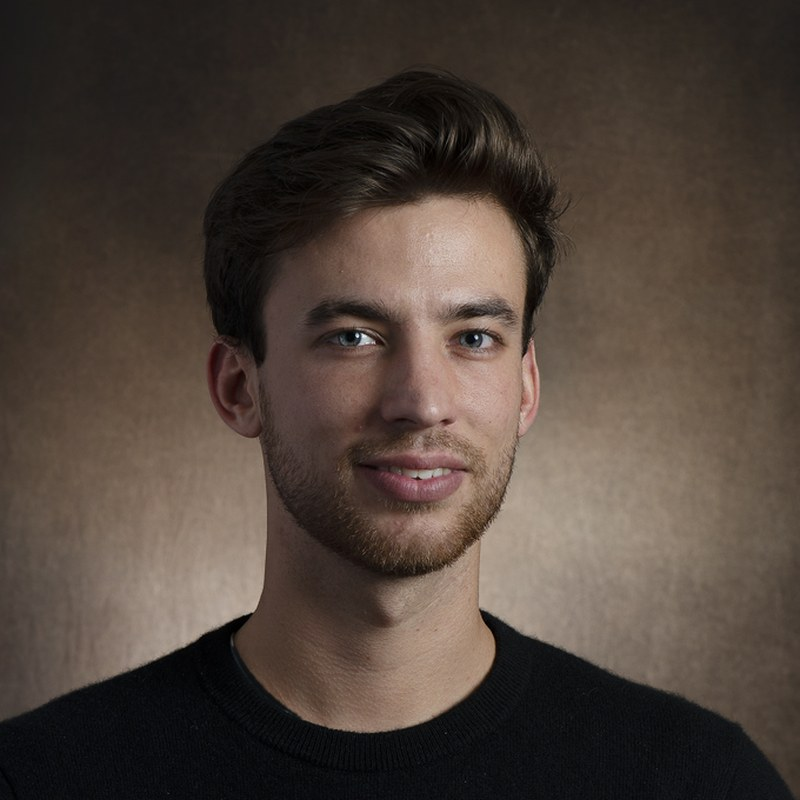
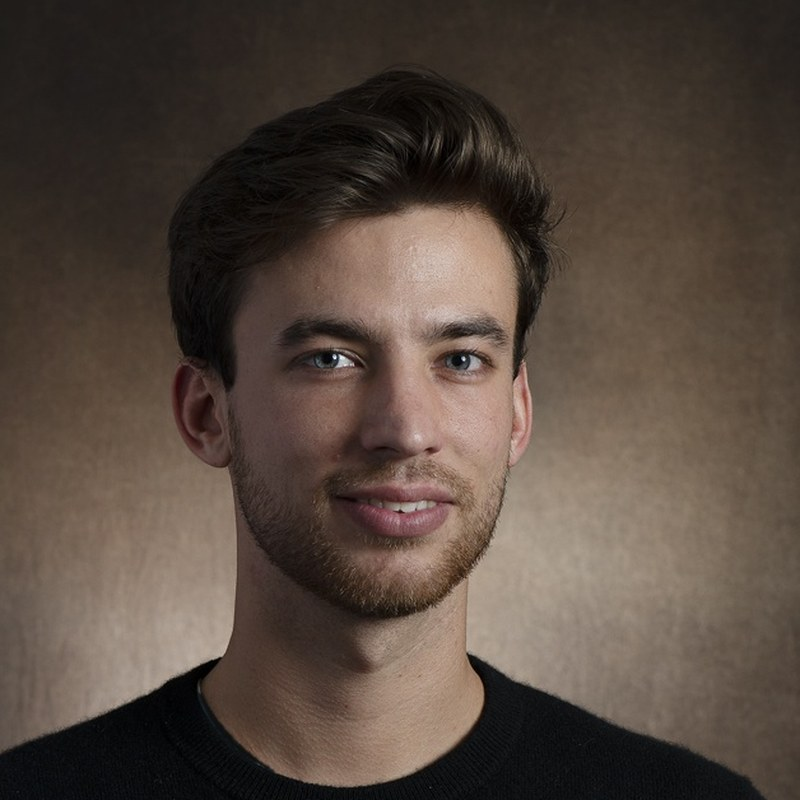
Portrait: concentric golden-proportion crop

diff --git a/index.html b/index.html
@@ -39,7 +39,7 @@
       <!-- TODO: add Google Scholar link once the profile exists -->
     </p>
   </div>
-  <img class="photo" src="img/photo.jpg?v=5" alt="Portrait of Marius Emanuel Hees">
+  <img class="photo" src="img/photo.jpg?v=6" alt="Portrait of Marius Emanuel Hees">
 </header>
 <hr>
 
